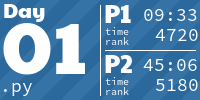
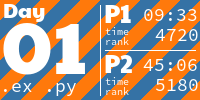
Solve 2023 day 01 elixir

diff --git a/README.md b/README.md
@@ -4,7 +4,7 @@
 <h1 align="center">
   2023 - 50 ⭐
 </h1>
-<a href="2023/01.py">
+<a href="2023/01.ex">
   <img src=".aoc_tiles/tiles/2023/01.png" width="161px">
 </a>
 <a href="2023/02.py">
